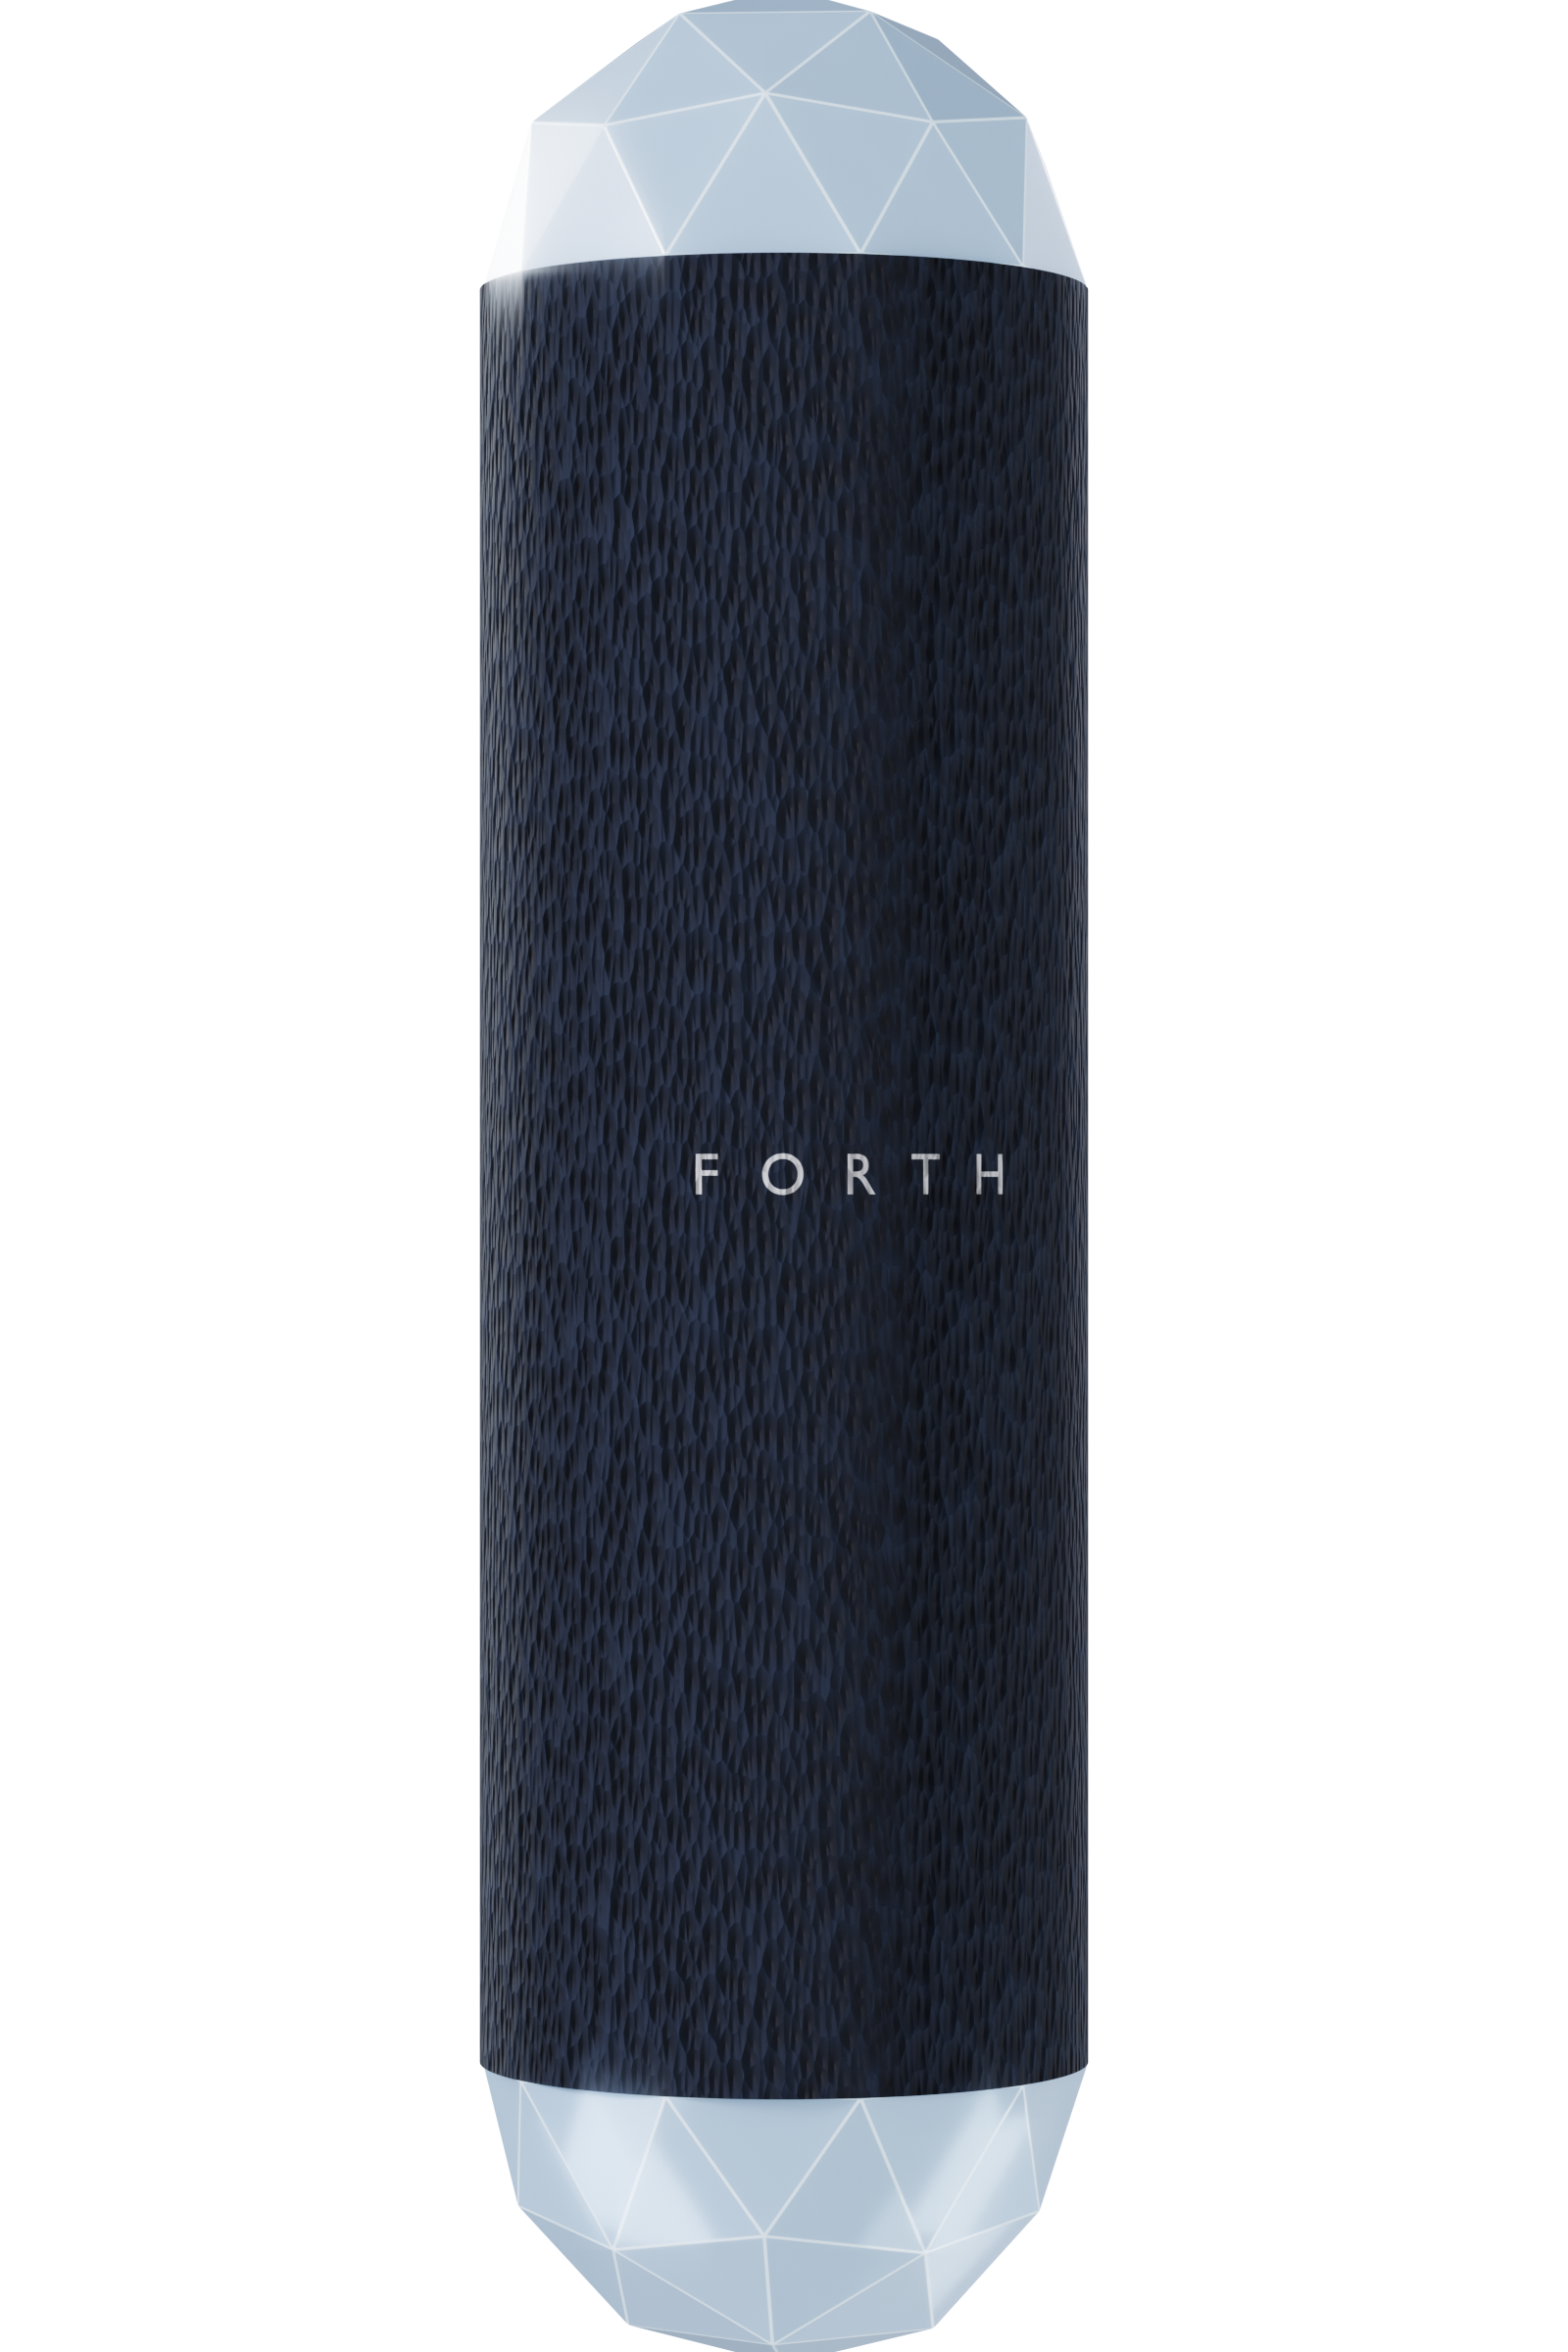
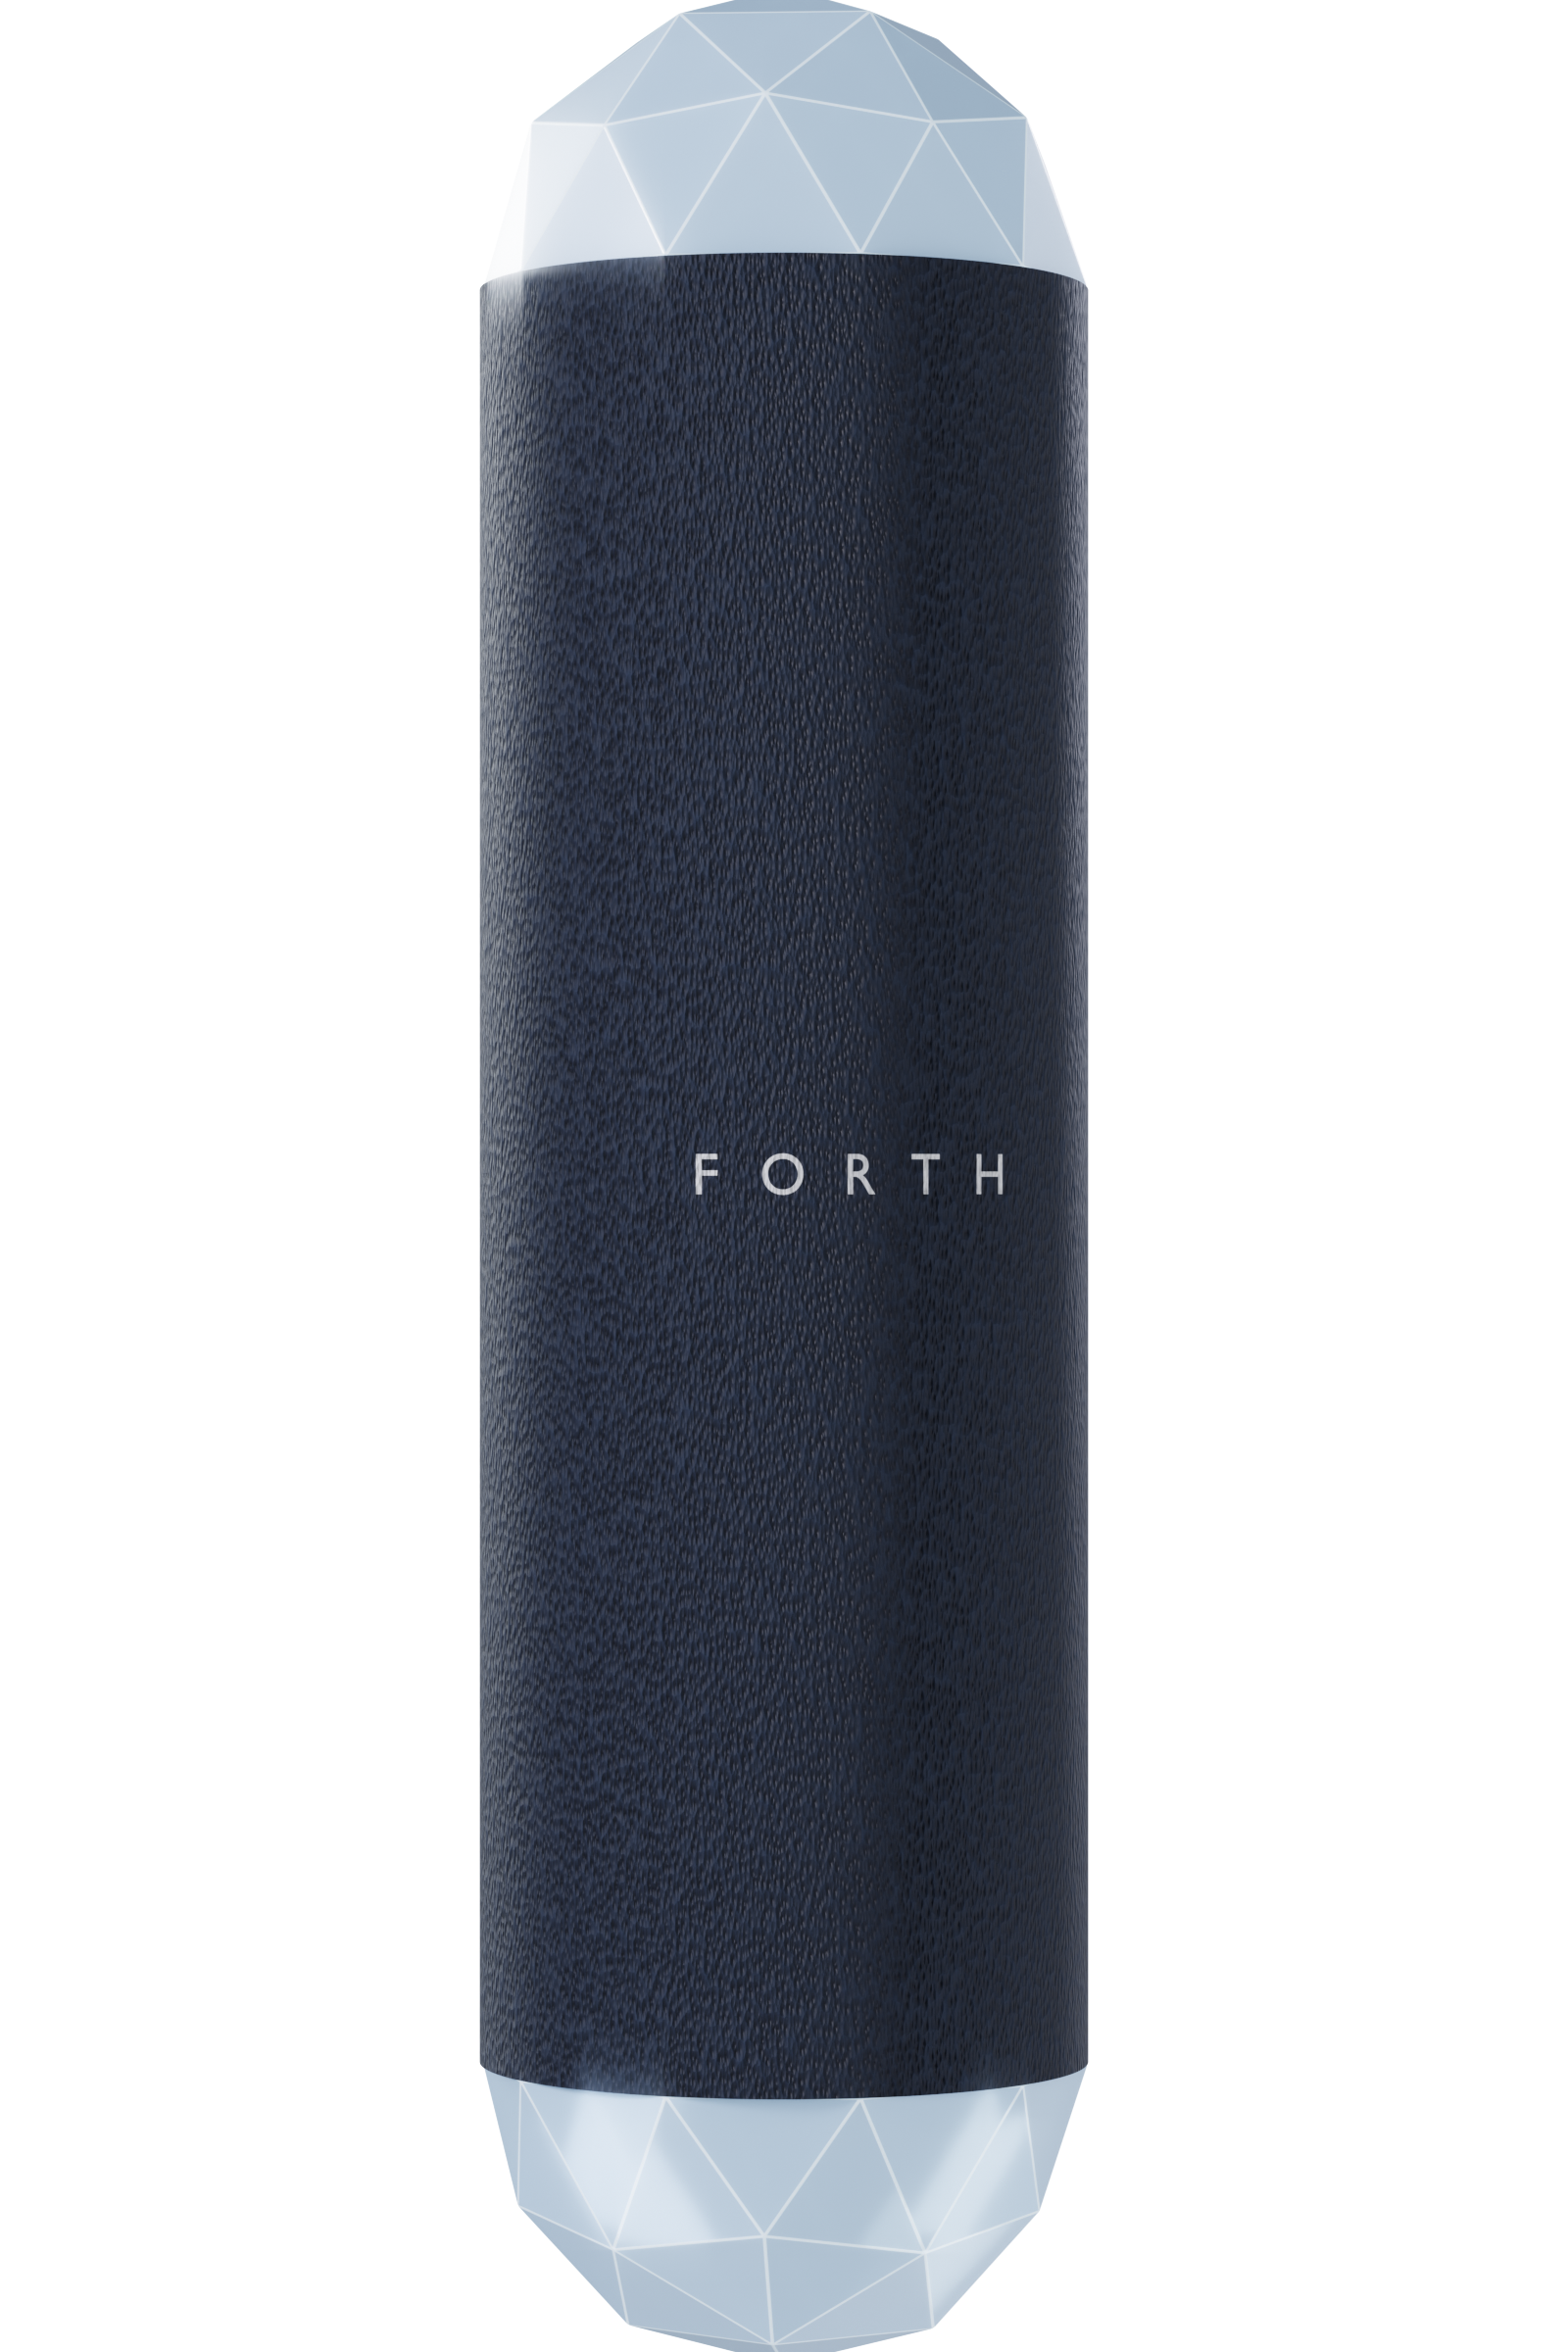
Update coarse render; and updated glow effect on the site

Changed region(s): [[0.2812, 0.0938, 0.5625, 0.9062], [0.5938, 0.125, 0.7188, 0.875], [0.5938, 0.5938, 0.625, 0.625]]

diff --git a/app/components/HeroColorPicker.tsx b/app/components/HeroColorPicker.tsx
@@ -15,9 +15,9 @@ const COLORWAYS: Array<{
   image?: string;
 }> = [
   { id: "midnight", label: "Midnight",            body: "#1A2433", dome: "#C8D4DC", glow: "#7FB3FF", halo: "#BAE6FD" },
-  { id: "coral",    label: "Coral",   sub: "Limited", body: "#3F2424", dome: "#E89B7C", glow: "#E89B7C", halo: "#E89B7C", image: "/renderings/forth-device-coral-frame-00.png" },
-  { id: "sage",     label: "Sage",                body: "#1F2A28", dome: "#A6C7B6", glow: "#A6C7B6", halo: "#A6C7B6", image: "/renderings/forth-device-sage-frame-00.png" },
-  { id: "sun",      label: "Sun",                 body: "#2B2210", dome: "#FFE6A1", glow: "#F4D35E", halo: "#FFE6A1", image: "/renderings/forth-device-sun-frame-00.png" },
+  { id: "coral",    label: "Coral",   sub: "Limited", body: "#3F2424", dome: "#E89B7C", glow: "#E89B7C", halo: "#FDDDD4", image: "/renderings/forth-device-coral-frame-00.png" },
+  { id: "sage",     label: "Sage",                body: "#1F2A28", dome: "#A6C7B6", glow: "#A6C7B6", halo: "#D4EDE6", image: "/renderings/forth-device-sage-frame-00.png" },
+  { id: "sun",      label: "Sun",                 body: "#2B2210", dome: "#FFE6A1", glow: "#F4D35E", halo: "#FFF3CC", image: "/renderings/forth-device-sun-frame-00.png" },
 ];
 
 export function HeroColorPicker({ alt }: { alt: string }) {
@@ -33,15 +33,15 @@ export function HeroColorPicker({ alt }: { alt: string }) {
           so swapping to the SVG variants doesn't reflow the swatch row below. */}
       <div className="relative flex h-[460px] w-[307px] items-center justify-center md:h-[560px] md:w-[373px]">
         {/* Ambient background glow — tints with the active colorway */}
-        <div className="pointer-events-none absolute -inset-12 rounded-full bg-a-sage/15 blur-3xl" aria-hidden />
+        <div className="pointer-events-none absolute -inset-12 -z-10 rounded-full bg-a-sage/15 blur-3xl" aria-hidden />
         <div
-          className="pointer-events-none absolute left-1/2 top-0 -translate-x-1/2 -translate-y-1/2 h-80 w-80 rounded-full blur-3xl"
-          style={{ backgroundColor: cw.halo, opacity: 0.55, transition: "background-color 0.6s ease" }}
+          className="pointer-events-none absolute left-1/2 top-0 -z-10 -translate-x-1/2 -translate-y-1/2 h-80 w-80 rounded-full blur-3xl"
+          style={{ backgroundColor: cw.halo, opacity: showCoarse ? 0.40 : 0.55, transition: "background-color 0.6s ease, opacity 0.6s ease" }}
           aria-hidden
         />
         <div
-          className="pointer-events-none absolute left-1/2 bottom-0 -translate-x-1/2 translate-y-1/2 h-80 w-80 rounded-full blur-3xl"
-          style={{ backgroundColor: cw.halo, opacity: 0.55, transition: "background-color 0.6s ease" }}
+          className="pointer-events-none absolute left-1/2 bottom-0 -z-10 -translate-x-1/2 translate-y-1/2 h-80 w-80 rounded-full blur-3xl"
+          style={{ backgroundColor: cw.halo, opacity: showCoarse ? 0.40 : 0.55, transition: "background-color 0.6s ease, opacity 0.6s ease" }}
           aria-hidden
         />
 

diff --git a/scripts/render-device-midnight-coarse.py b/scripts/render-device-midnight-coarse.py
@@ -25,22 +25,22 @@ CAP_RADIUS  = 1.10
 RING_RADIUS = 1.101
 RING_DEPTH  = 0.06
 
-# ── Midnight palette ───────────────────────────────────────────────────────────
-BODY_DARK    = (0.003, 0.006, 0.014, 1.0)
-BODY_LIGHT   = (0.026, 0.040, 0.066, 1.0)
-CAP_BASE     = (0.55,  0.72,  0.92,  1.0)
-CAP_EDGE     = (0.85,  0.93,  1.0,   1.0)
-CAP_EMIT     = (0.45,  0.70,  1.0,   1.0)
-CAP_EDGE_EMIT= (0.55,  0.80,  1.0,   1.0)
+# ── Midnight palette (adjusted for bump brightening compensation) ──────────────
+BODY_DARK    = (0.002, 0.004, 0.010, 1.0)  # darker to offset bump brightening
+BODY_LIGHT   = (0.018, 0.028, 0.048, 1.0)  # darker to offset bump brightening
+CAP_BASE     = (0.58,  0.66,  0.80,  1.0)  # slightly more blue
+CAP_EDGE     = (0.86,  0.90,  0.95,  1.0)  # slightly more blue
+CAP_EMIT     = (0.50,  0.66,  0.88,  1.0)  # slightly more blue
+CAP_EDGE_EMIT= (0.60,  0.75,  0.92,  1.0)  # slightly more blue
 
-# ── Coarse matte texture parameters (vs original) ─────────────────────────────
-# Original: scale=220, bump_strength=1.6, bump_dist=0.007, rough 0.45-0.85
-# Goal: same cell density as original, but taller/deeper bumps per cell
-VORONOI_SCALE  = 180.0   # close to original density — avoids porous/crater look
-BUMP_STRENGTH  = 3.5     # deeper surface relief per cell
-BUMP_DISTANCE  = 0.016   # taller physical displacement
-ROUGH_MIN      = 0.50    # close to original floor
-ROUGH_MAX      = 0.90    # slightly higher ceiling
+# ── Coarse matte texture parameters (vs standard) ────────────────────────────
+# Standard: scale=220, bump_strength=1.6, bump_dist=0.007, rough 0.45-0.85
+# Goal: larger cells + deeper bumps, all colors identical to standard
+VORONOI_SCALE  = 150.0   # larger cells than standard's 220
+BUMP_STRENGTH  = 2.2     # deeper relief than standard's 1.6
+BUMP_DISTANCE  = 0.009   # slightly more displacement than standard's 0.007
+ROUGH_MIN      = 0.45    # identical to standard
+ROUGH_MAX      = 0.85    # identical to standard
 
 
 def reset_scene():

diff --git a/scripts/render-device-coral.py b/scripts/render-device-coral.py
@@ -13,8 +13,6 @@ After rendering all frames, encode with ffmpeg:
 import bpy
 import math
 import os
-import shutil
-
 REPO_ROOT         = r"c:\Users\Stephen\Documents\GitHub\Sterilizer-Website"
 OUT_DIR           = os.path.join(REPO_ROOT, "public", "renderings")
 HDRI_PATH         = os.path.join(REPO_ROOT, "scripts", "hdri", "studio_small_08_1k.exr")
@@ -22,7 +20,6 @@ WORDMARK_TEX_PATH = os.path.join(REPO_ROOT, "scripts", "_wordmark.png")
 
 RES_X, RES_Y = 1600, 2400
 SAMPLES      = 512
-NUM_FRAMES   = 1   # set to 104 for full rotation
 
 BODY_LENGTH = 6.4
 BODY_RADIUS = 1.10
@@ -471,20 +468,10 @@ def main():
             continue
         obj.parent = device_root
 
-    for i in range(NUM_FRAMES):
-        progress = i / max(NUM_FRAMES - 1, 1)
-        device_root.rotation_euler = (0, 0, math.radians(-progress * 90.0))
-        frame_path = os.path.join(OUT_DIR, f"forth-device-coral-frame-{i:02d}.png")
-        bpy.context.scene.render.filepath = frame_path
-        bpy.ops.render.render(write_still=True)
-        print(f"[coral] {i+1}/{NUM_FRAMES} → {frame_path}")
-
-    shutil.copy(
-        os.path.join(OUT_DIR, "forth-device-coral-frame-00.png"),
-        os.path.join(OUT_DIR, "forth-device-coral-hero.png"),
-    )
-    device_root.rotation_euler = (0, 0, 0)
-    print(f"[coral] Done. Frames in {OUT_DIR}")
+    frame_path = os.path.join(OUT_DIR, "forth-device-coral-frame-00.png")
+    bpy.context.scene.render.filepath = frame_path
+    bpy.ops.render.render(write_still=True)
+    print(f"[coral] Done → {frame_path}")
 
 
 if __name__ == "__main__":